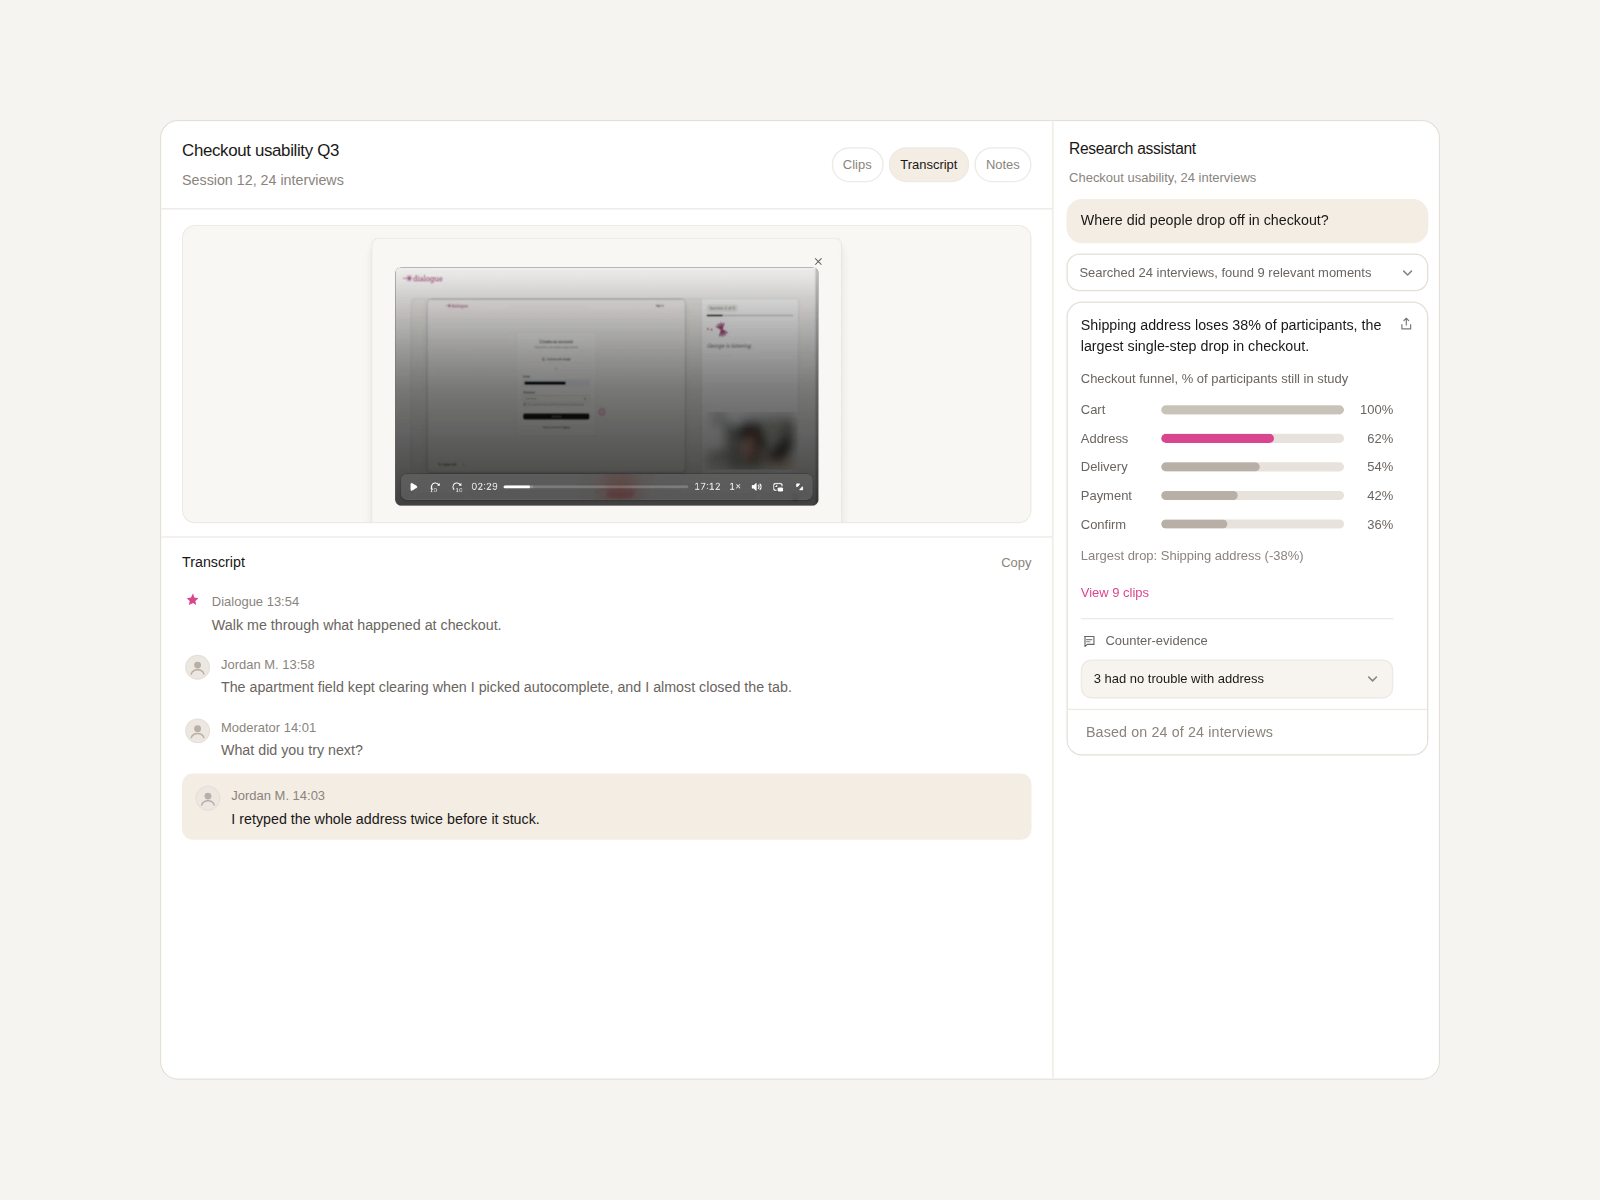
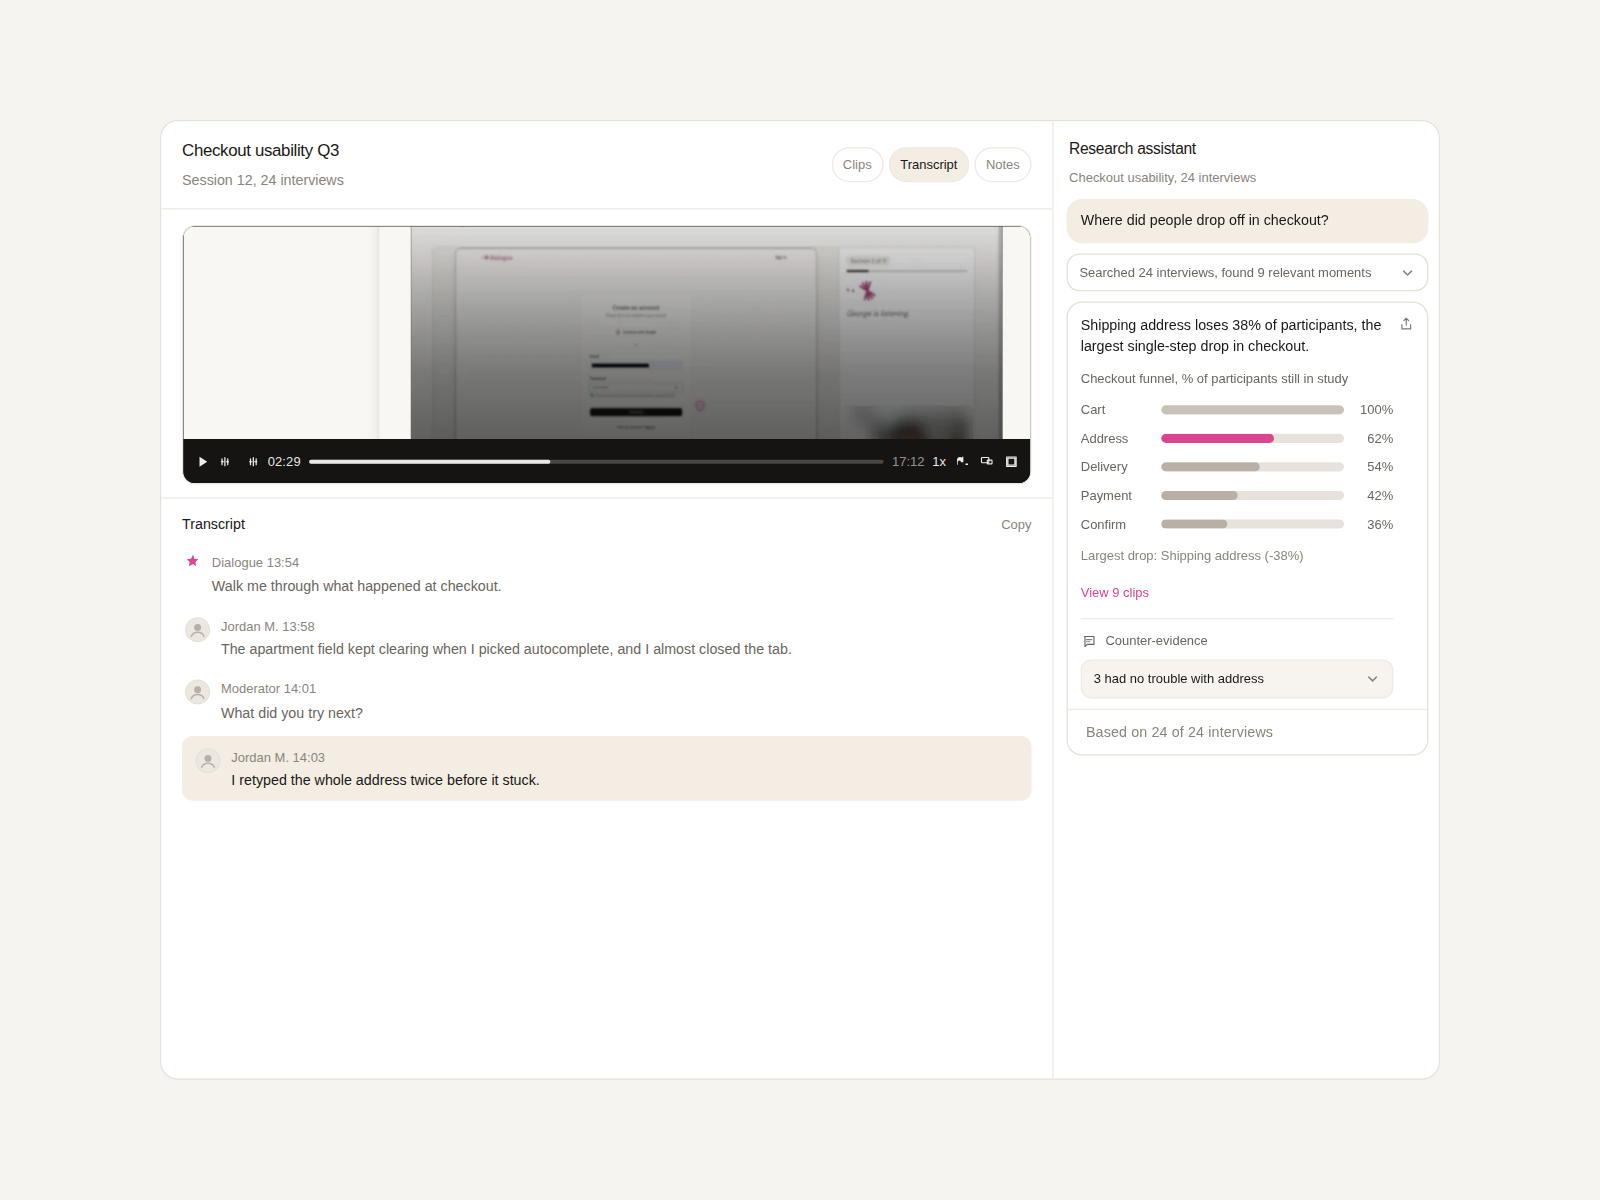
Dialogue placement: HTML player bar, video still crop, floating panel fit
Crop only the blurred interview frame for the video area (~164px) and render
play, skip, timestamps, scrub, and chrome as live HTML. Cap total player height
at 200px. Anchor the floating assistant at the player top so the full answer
card through the derived footer stays visible.

Changed region(s): [[0.0938, 0.4317, 0.6562, 0.7092], [0.0938, 0.185, 0.6562, 0.4317]]

diff --git a/components/dialogue/DialoguePlayerControlBar.tsx b/components/dialogue/DialoguePlayerControlBar.tsx
@@ -1,0 +1,111 @@
+import type { ReactNode } from "react";
+import { DIALOGUE_GRAPHICS_FONT } from "@/lib/caseStudies/dialogueGraphicsTheme";
+
+const BAR_BG = "rgba(22, 20, 18, 0.94)";
+const ICON = "rgba(255, 255, 255, 0.92)";
+const MUTED = "rgba(255, 255, 255, 0.55)";
+
+function IconBtn({ children }: { children: ReactNode }) {
+  return (
+    <span style={{ display: "inline-flex", alignItems: "center", justifyContent: "center", flexShrink: 0 }}>
+      {children}
+    </span>
+  );
+}
+
+export function DialoguePlayerControlBar({ height = 36 }: { height?: number }) {
+  const icon = 13;
+  return (
+    <div
+      style={{
+        height,
+        boxSizing: "border-box",
+        padding: "0 8px",
+        display: "flex",
+        alignItems: "center",
+        gap: 6,
+        background: BAR_BG,
+        fontFamily: DIALOGUE_GRAPHICS_FONT,
+        color: ICON,
+      }}
+    >
+      <IconBtn>
+        <svg width={icon} height={icon} viewBox="0 0 16 16" fill="none" aria-hidden>
+          <path d="M5.5 3.2v9.6L12.8 8 5.5 3.2Z" fill="currentColor" />
+        </svg>
+      </IconBtn>
+      <IconBtn>
+        <svg width={icon} height={icon} viewBox="0 0 16 16" fill="none" aria-hidden>
+          <path
+            d="M3.5 5.2v5.6M6.2 4.2v7.6M8.9 5.2v5.6"
+            stroke="currentColor"
+            strokeWidth="1.2"
+            strokeLinecap="round"
+          />
+          <path d="M2.8 8h2.2M7.5 8h2.2" stroke="currentColor" strokeWidth="1.1" strokeLinecap="round" />
+        </svg>
+      </IconBtn>
+      <IconBtn>
+        <svg width={icon} height={icon} viewBox="0 0 16 16" fill="none" aria-hidden>
+          <path
+            d="M12.5 5.2v5.6M9.8 4.2v7.6M7.1 5.2v5.6"
+            stroke="currentColor"
+            strokeWidth="1.2"
+            strokeLinecap="round"
+          />
+          <path d="M13.2 8h-2.2M8.5 8H6.3" stroke="currentColor" strokeWidth="1.1" strokeLinecap="round" />
+        </svg>
+      </IconBtn>
+      <span style={{ fontSize: 10, fontWeight: 500, letterSpacing: "0.01em", flexShrink: 0 }}>02:29</span>
+      <div
+        style={{
+          flex: 1,
+          minWidth: 24,
+          height: 3,
+          borderRadius: 2,
+          background: "rgba(255,255,255,0.22)",
+          position: "relative",
+        }}
+      >
+        <div
+          style={{
+            position: "absolute",
+            left: 0,
+            top: 0,
+            width: "42%",
+            height: "100%",
+            borderRadius: 2,
+            background: "rgba(255,255,255,0.88)",
+          }}
+        />
+      </div>
+      <span style={{ fontSize: 10, color: MUTED, flexShrink: 0 }}>17:12</span>
+      <span style={{ fontSize: 10, fontWeight: 500, flexShrink: 0 }}>1x</span>
+      <IconBtn>
+        <svg width={icon} height={icon} viewBox="0 0 16 16" fill="none" aria-hidden>
+          <path
+            d="M3.2 6.2c0-1.6 1.3-2.8 2.8-2.8.8 0 1.5.3 2 .9V3.2h1.2v5.2H6.8V7.5c-.3-.4-.8-.6-1.3-.6-.9 0-1.6.7-1.6 1.6v2.4H3.2V6.2Z"
+            fill="currentColor"
+          />
+          <path d="M11.2 9.8h2.4v1.2h-2.4V9.8Z" fill="currentColor" />
+        </svg>
+      </IconBtn>
+      <IconBtn>
+        <svg width={icon} height={icon} viewBox="0 0 16 16" fill="none" aria-hidden>
+          <rect x="3" y="4" width="7" height="5" rx="0.8" stroke="currentColor" strokeWidth="1.1" />
+          <rect x="8.5" y="6.5" width="4.5" height="3.5" rx="0.6" stroke="currentColor" strokeWidth="1.1" />
+        </svg>
+      </IconBtn>
+      <IconBtn>
+        <svg width={icon} height={icon} viewBox="0 0 16 16" fill="none" aria-hidden>
+          <path
+            d="M3.5 3.5h9v9h-9v-9Zm1.2 1.2v6.6h6.6V4.7H4.7Z"
+            stroke="currentColor"
+            strokeWidth="1.1"
+            strokeLinejoin="round"
+          />
+        </svg>
+      </IconBtn>
+    </div>
+  );
+}

diff --git a/components/dialogue/DialogueInterviewPlayer.tsx b/components/dialogue/DialogueInterviewPlayer.tsx
@@ -1,10 +1,12 @@
 import {
-  PLACEMENT_PLAYER_ASSET_HEIGHT,
-  PLACEMENT_PLAYER_ASSET_WIDTH,
+  PLACEMENT_PLAYER_CONTROL_HEIGHT,
+  PLACEMENT_PLAYER_TOTAL_HEIGHT,
+  PLACEMENT_PLAYER_VIDEO_HEIGHT,
 } from "@/lib/caseStudies/dialogueStudyPlacementLayout";
 import { DIALOGUE_GRAPHICS_COLORS, DIALOGUE_GRAPHICS_FONT } from "@/lib/caseStudies/dialogueGraphicsTheme";
+import { DialoguePlayerControlBar } from "@/components/dialogue/DialoguePlayerControlBar";
 
-/** Raster player chrome from approved section-5 (blurred still + real controls). */
+/** Blurred interview still (raster) + live HTML control bar (approved section-5 pattern). */
 export function DialogueInterviewPlayer() {
   return (
     <div
@@ -13,26 +15,38 @@ export function DialogueInterviewPlayer() {
         borderRadius: 10,
         overflow: "hidden",
         border: `1px solid ${DIALOGUE_GRAPHICS_COLORS.borderSubtle}`,
-        background: DIALOGUE_GRAPHICS_COLORS.surface,
+        background: "#161412",
         position: "relative",
         width: "100%",
-        aspectRatio: `${PLACEMENT_PLAYER_ASSET_WIDTH} / ${PLACEMENT_PLAYER_ASSET_HEIGHT}`,
+        height: PLACEMENT_PLAYER_TOTAL_HEIGHT,
+        display: "flex",
+        flexDirection: "column",
       }}
     >
-      {/* eslint-disable-next-line @next/next/no-img-element */}
-      <img
-        src="/dialogue/placement-interview-player.webp"
-        alt=""
-        width={PLACEMENT_PLAYER_ASSET_WIDTH}
-        height={PLACEMENT_PLAYER_ASSET_HEIGHT}
+      <div
         style={{
-          display: "block",
-          width: "100%",
-          height: "100%",
-          objectFit: "cover",
-          objectPosition: "top center",
+          height: PLACEMENT_PLAYER_VIDEO_HEIGHT,
+          position: "relative",
+          overflow: "hidden",
+          flexShrink: 0,
         }}
-      />
+      >
+        {/* eslint-disable-next-line @next/next/no-img-element */}
+        <img
+          src="/dialogue/placement-video-still.webp"
+          alt=""
+          style={{
+            position: "absolute",
+            inset: 0,
+            width: "100%",
+            height: "100%",
+            objectFit: "cover",
+            objectPosition: "center center",
+            display: "block",
+          }}
+        />
+      </div>
+      <DialoguePlayerControlBar height={PLACEMENT_PLAYER_CONTROL_HEIGHT} />
     </div>
   );
 }

diff --git a/lib/caseStudies/dialogueStudyPlacementLayout.ts b/lib/caseStudies/dialogueStudyPlacementLayout.ts
@@ -1,27 +1,23 @@
 /** Pixel layout shared by study host + floating placement overlay (keep in sync with DialogueStudyHostPage). */
 
-export const PLACEMENT_PLAYER_ASSET_WIDTH = 1336;
-export const PLACEMENT_PLAYER_ASSET_HEIGHT = 468;
+export const PLACEMENT_PLAYER_TOTAL_HEIGHT = 200;
+export const PLACEMENT_PLAYER_CONTROL_HEIGHT = 36;
+export const PLACEMENT_PLAYER_VIDEO_HEIGHT =
+  PLACEMENT_PLAYER_TOTAL_HEIGHT - PLACEMENT_PLAYER_CONTROL_HEIGHT;
 
 export const STUDY_HEADER_BLOCK_HEIGHT = 61;
 export const STUDY_PLAYER_PAD_TOP = 12;
 export const STUDY_PLAYER_PAD_BOTTOM = 10;
 export const STUDY_PLAYER_PAD_X = 16;
 
-export function studyPlayerRenderHeight(columnInnerWidth: number): number {
-  return Math.round(
-    columnInnerWidth * (PLACEMENT_PLAYER_ASSET_HEIGHT / PLACEMENT_PLAYER_ASSET_WIDTH),
-  );
+/** Y where the player block starts (below study header). */
+export function studyPlayerBlockTopY(): number {
+  return STUDY_HEADER_BLOCK_HEIGHT + 1 + STUDY_PLAYER_PAD_TOP;
 }
 
-/** Y offset where transcript begins (floating chat should start here or below). */
-export function studyTranscriptTopY(columnWidth: number): number {
-  const inner = columnWidth - STUDY_PLAYER_PAD_X * 2;
+/** Y offset where transcript begins. */
+export function studyTranscriptTopY(_columnWidth?: number): number {
   return (
-    STUDY_HEADER_BLOCK_HEIGHT +
-    1 +
-    STUDY_PLAYER_PAD_TOP +
-    studyPlayerRenderHeight(inner) +
-    STUDY_PLAYER_PAD_BOTTOM
+    studyPlayerBlockTopY() + PLACEMENT_PLAYER_TOTAL_HEIGHT + STUDY_PLAYER_PAD_BOTTOM
   );
 }

diff --git a/components/dialogue/DialogueResearchAssistantPanel.tsx b/components/dialogue/DialogueResearchAssistantPanel.tsx
@@ -2,14 +2,21 @@ import { DIALOGUE_GRAPHICS_COLORS, DIALOGUE_GRAPHICS_FONT } from "@/lib/caseStud
 import { EvidenceAnswerCard } from "@/components/dialogue/graphics/EvidenceAnswerCard";
 import { ChevronDownIcon } from "@/components/dialogue/graphics/DialogueIcons";
 
-export function DialogueResearchAssistantPanel({ compact }: { compact: boolean }) {
+export function DialogueResearchAssistantPanel({
+  compact,
+  floating = false,
+}: {
+  compact: boolean;
+  floating?: boolean;
+}) {
+  const fillHeight = compact && !floating;
   return (
     <div
       style={{
         display: "flex",
         flexDirection: "column",
-        height: "100%",
-        minHeight: 0,
+        height: fillHeight ? "100%" : "auto",
+        minHeight: fillHeight ? 0 : undefined,
         fontFamily: DIALOGUE_GRAPHICS_FONT,
         color: DIALOGUE_GRAPHICS_COLORS.ink,
       }}
@@ -25,14 +32,13 @@ export function DialogueResearchAssistantPanel({ compact }: { compact: boolean }
 
       <div
         style={{
-          flex: 1,
-          minHeight: 0,
+          flex: fillHeight ? 1 : undefined,
+          minHeight: fillHeight ? 0 : undefined,
           padding: compact ? "0 10px 10px" : "0 12px 12px",
           display: "flex",
           flexDirection: "column",
           gap: compact ? 8 : 10,
-          overflowY: compact ? "auto" : "hidden",
-          overflowX: "hidden",
+          overflow: floating ? "visible" : fillHeight ? "auto" : "hidden",
         }}
       >
         <div

diff --git a/components/dialogue/DialoguePlacementScene.tsx b/components/dialogue/DialoguePlacementScene.tsx
@@ -6,7 +6,6 @@ import {
   PLACEMENT_FLOATING_CHAT_TOP,
   PLACEMENT_FLOATING_EDGE,
   PLACEMENT_FLOATING_LAUNCHER_SIZE,
-  PLACEMENT_FLOATING_LAUNCHER_GAP,
   PLACEMENT_FLOATING_PANEL_BOTTOM,
   type PlacementVariant,
 } from "@/lib/caseStudies/dialoguePlacementExport";
@@ -69,27 +68,25 @@ function PlacementFrame({ variant }: { variant: PlacementVariant }) {
           top: PLACEMENT_FLOATING_CHAT_TOP,
           bottom: PLACEMENT_FLOATING_PANEL_BOTTOM,
           width: 292,
+          pointerEvents: "none",
           display: "flex",
           flexDirection: "column",
           alignItems: "flex-end",
-          gap: PLACEMENT_FLOATING_LAUNCHER_GAP,
-          pointerEvents: "none",
         }}
       >
         <div
           style={{
             width: "100%",
-            flex: 1,
-            minHeight: 0,
+            maxHeight: "100%",
             borderRadius: 14,
             border: `1px solid ${DIALOGUE_GRAPHICS_COLORS.border}`,
             background: DIALOGUE_GRAPHICS_COLORS.surface,
             boxShadow: "0 10px 28px rgba(26, 24, 22, 0.08)",
-            overflow: "hidden",
+            overflow: "visible",
             pointerEvents: "auto",
           }}
         >
-          <DialogueResearchAssistantPanel compact />
+          <DialogueResearchAssistantPanel compact floating />
         </div>
       </div>
       <div

diff --git a/lib/caseStudies/dialoguePlacementExport.ts b/lib/caseStudies/dialoguePlacementExport.ts
@@ -1,4 +1,4 @@
-import { studyTranscriptTopY } from "@/lib/caseStudies/dialogueStudyPlacementLayout";
+import { studyPlayerBlockTopY } from "@/lib/caseStudies/dialogueStudyPlacementLayout";
 
 /**
  * Dialogue placement moment tiles (section-6 / section-6b).
@@ -50,7 +50,7 @@ export type PlacementVariant = "docked" | "floating";
 export const PLACEMENT_FLOATING_LAUNCHER_SIZE = 50;
 export const PLACEMENT_FLOATING_LAUNCHER_GAP = 10;
 export const PLACEMENT_FLOATING_EDGE = 14;
-export const PLACEMENT_FLOATING_CHAT_TOP =
-  studyTranscriptTopY(PLACEMENT_LAYOUT_WIDTH) + 4;
+/** Overlap the player on the right; full answer card must fit below. */
+export const PLACEMENT_FLOATING_CHAT_TOP = studyPlayerBlockTopY();
 export const PLACEMENT_FLOATING_PANEL_BOTTOM =
   PLACEMENT_FLOATING_EDGE + PLACEMENT_FLOATING_LAUNCHER_SIZE + PLACEMENT_FLOATING_LAUNCHER_GAP;
